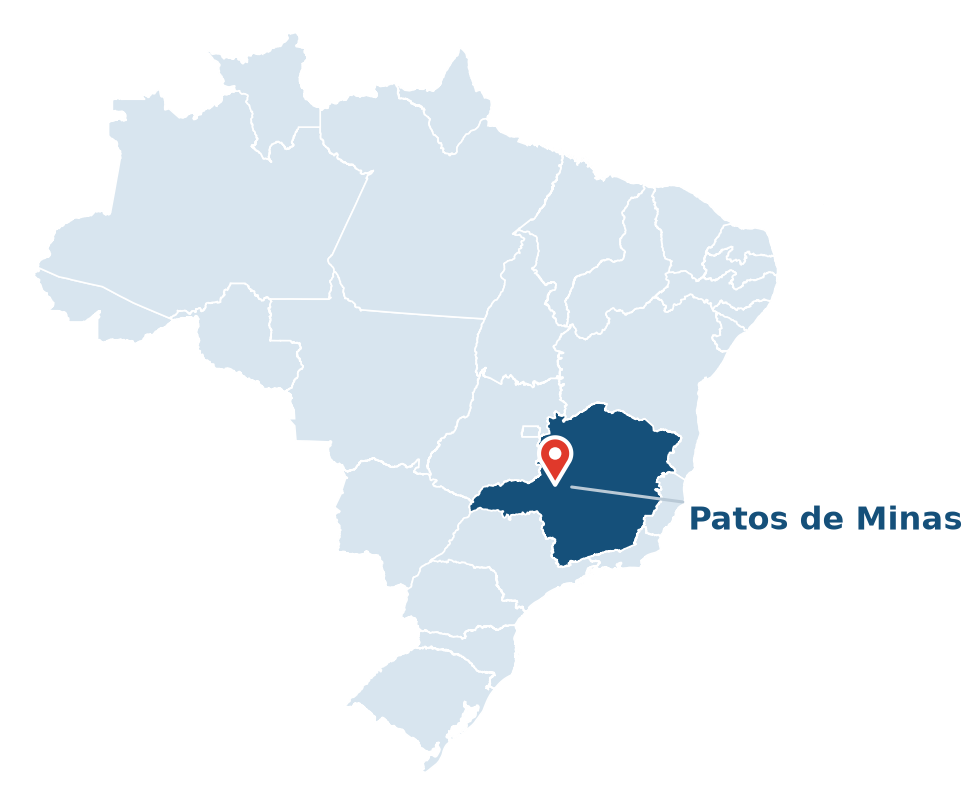
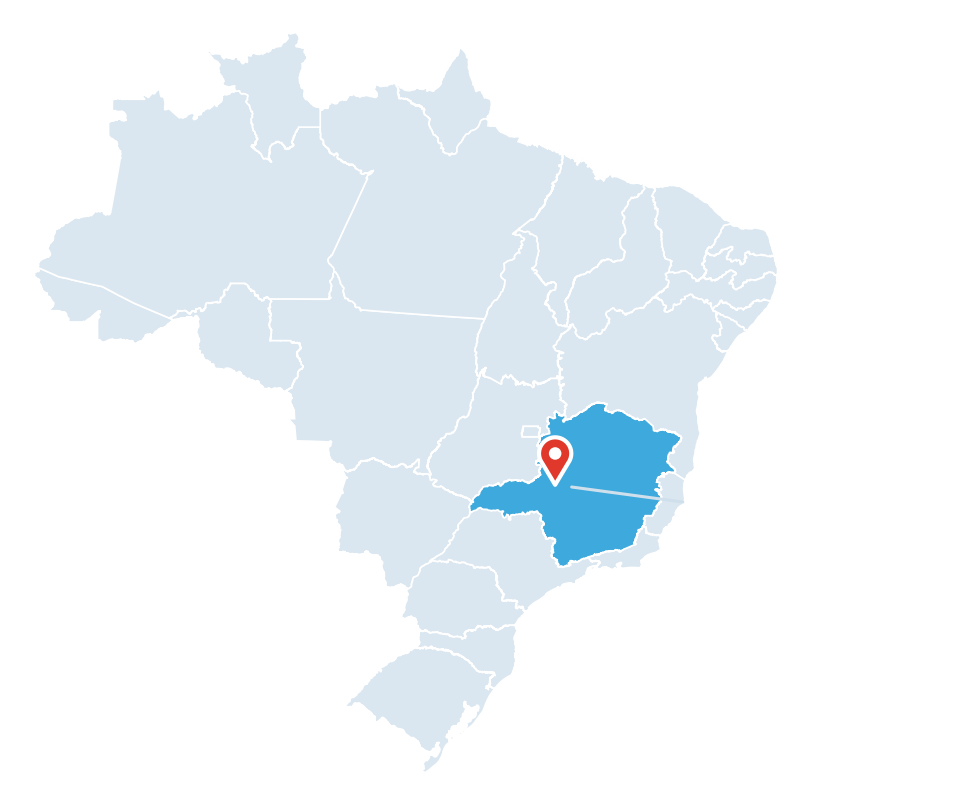
Site: mapa direto no rodape escuro (sem caixa branca) — MG em ciano, rotulo branco, legendas claras

Changed region(s): [[0.463, 0.4969, 0.7099, 0.7143], [0.7099, 0.6211, 0.9877, 0.6832]]

diff --git a/index.html b/index.html
@@ -691,10 +691,10 @@
       </div>
     </div>
 
-    <div class="onde-estamos" style="margin:2.4rem auto 0;max-width:540px;background:#f4f8fb;border-radius:20px;padding:1.5rem 1.6rem 1.3rem;text-align:center;">
-      <img src="img/mapa-brasil.png" alt="Mapa do Brasil com a sede do LAMAM em Patos de Minas, Minas Gerais" style="width:100%;max-width:250px;height:auto;display:block;margin:0 auto .7rem;" loading="lazy">
-      <b style="color:#15507a;font-size:1.08rem;display:block;">Atendemos o Brasil todo</b>
-      <span style="display:block;color:#5b6b78;font-size:.9rem;margin-top:.15rem;">Sede em Patos de Minas · Minas Gerais</span>
+    <div class="onde-estamos" style="margin:2.6rem auto 0;max-width:430px;text-align:center;">
+      <img src="img/mapa-brasil.png" alt="Mapa do Brasil com a sede do LAMAM em Patos de Minas, Minas Gerais" style="width:100%;max-width:250px;height:auto;display:block;margin:0 auto .6rem;" loading="lazy">
+      <b style="color:#fff;font-size:1.08rem;display:block;">Atendemos o Brasil todo</b>
+      <span style="display:block;color:#8fb0c6;font-size:.9rem;margin-top:.15rem;">Sede em Patos de Minas · Minas Gerais</span>
     </div>
 
     <div class="foot-bottom">
